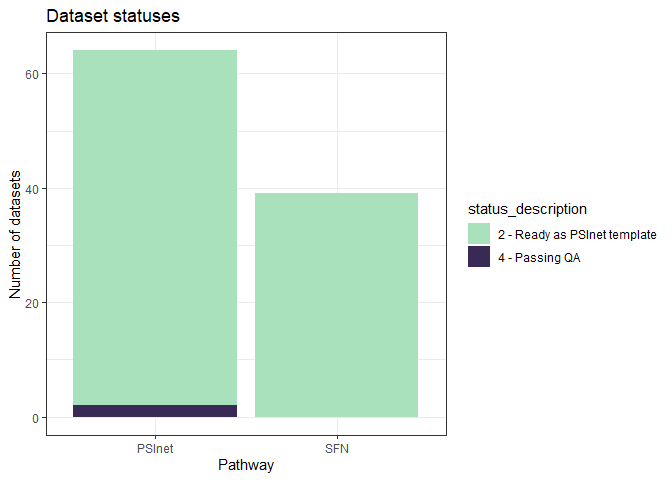
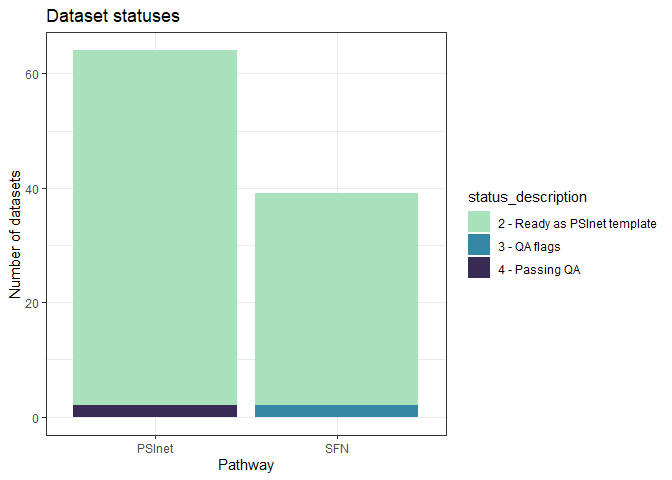
Couple of simple SFN imports.

Changed region(s): [[0.6875, 0.4062, 1.0, 0.5938], [0.375, 0.8438, 0.625, 0.875]]

diff --git a/README.md b/README.md
@@ -13,7 +13,8 @@ This repo houses scripts for QA of PSInet data.
 |:-------|:-----------------------------|----:|
 | PSInet | 2 - Ready as PSInet template |  62 |
 | PSInet | 4 - Passing QA               |   2 |
-| SFN    | 2 - Ready as PSInet template |  39 |
+| SFN    | 2 - Ready as PSInet template |  37 |
+| SFN    | 3 - QA flags                 |   2 |
 
 # Data QA instructions
 
